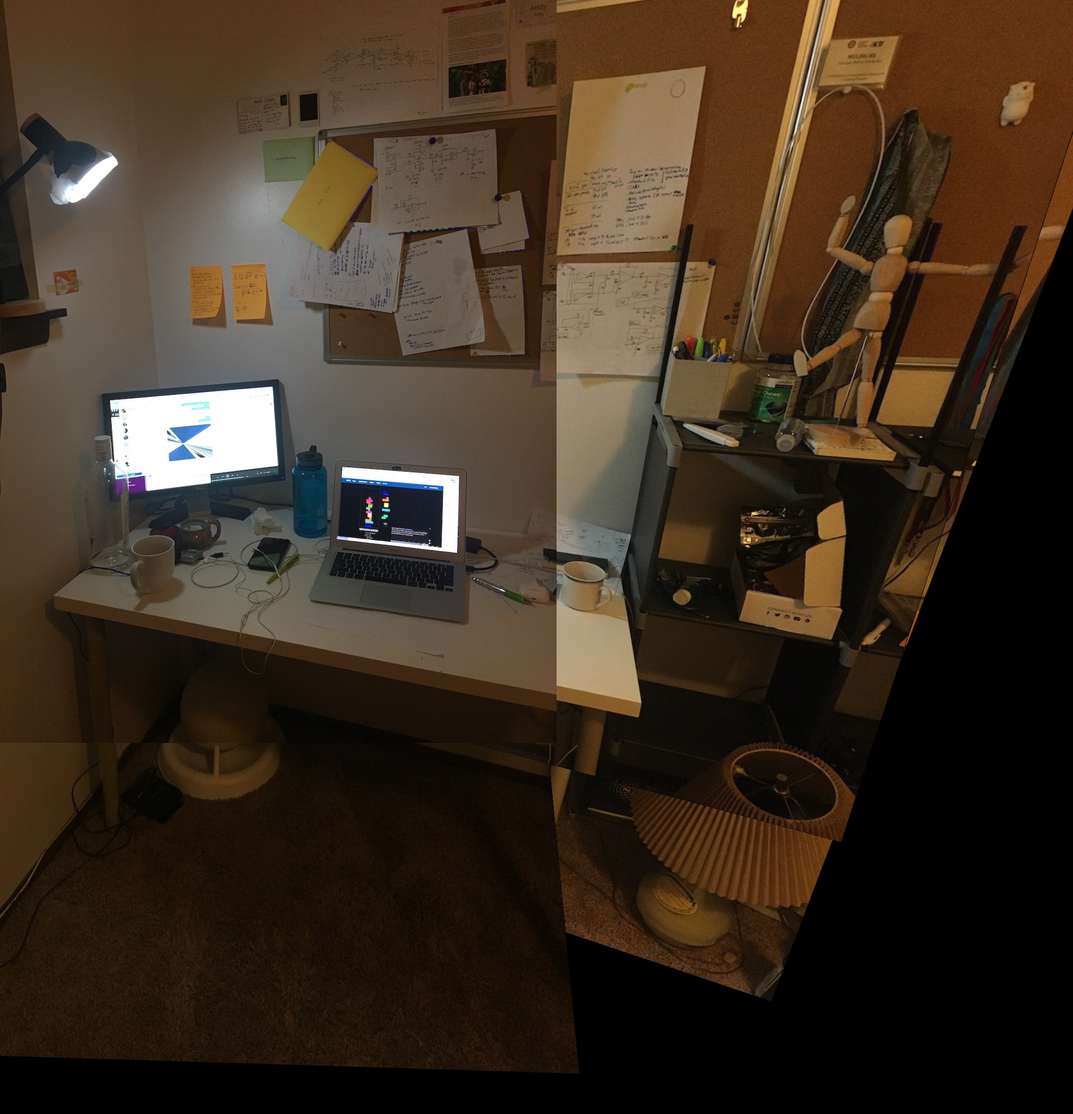
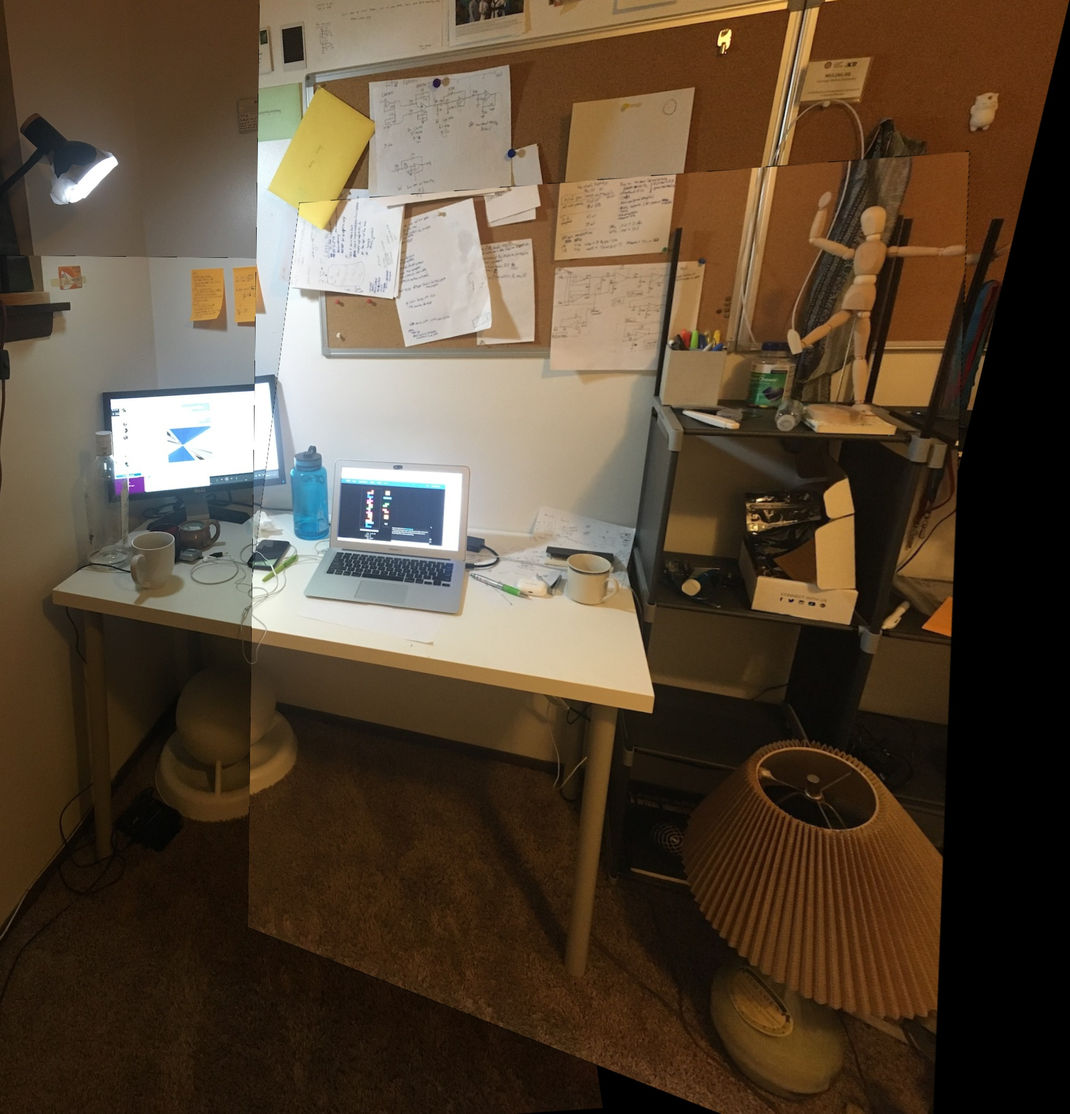
change order of combining and adjust thresholds and changed method of combining images in addImages

diff --git a/utils.py b/utils.py
@@ -45,7 +45,7 @@ def find_good_matches(desc1, desc2):
 
     # Not all matches are good, filter out the bad uing lowe's ratio criterion from:
     # https://docs.opencv.org/3.4/d5/d6f/tutorial_feature_flann_matcher.html
-    ratio_thresh = 0.75
+    ratio_thresh = 0.6
     good_matches = []
     for m, n in matches:
         if m.distance < ratio_thresh * n.distance:
@@ -75,6 +75,7 @@ def getGoodMatches(im1, im2):
 
 def addImage(baseIm, newIm, finalSize):
     matches, kps_1, kps_2 = getGoodMatches(newIm, baseIm)
+    print("keypoints found:", len(kps_1))
     homo, _ = cv2.findHomography(np.array(kps_1), np.array(kps_2),
                                  method=cv2.RANSAC, ransacReprojThreshold=2)
 
@@ -82,20 +83,12 @@ def addImage(baseIm, newIm, finalSize):
     h2, w2, _ = baseIm.shape
 
     warped_image = cv2.warpPerspective(newIm, homo, finalSize)
-
-    # print("baseim shape:", baseIm.shape)
-    # print("finalsize:", finalSize)
-
-    if (baseIm.shape[0] == finalSize[1] and baseIm.shape[1] == finalSize[0]):
-        print("adding base image")
-        # warped_image += baseIm*(warped_image == 0)
-        baseIm += warped_image * (baseIm == 0)
-        warped_image = baseIm
-        # warped_image += baseIm*(warped_image == 0)
-    else:
-        warped_image[0:baseIm.shape[0], 0:baseIm.shape[1]] = baseIm
-    cv2.imwrite("keyIm.jpg", warped_image)
-    return warped_image
+    # return warped_image
+    # Experiment:
+    fin = np.zeros(( finalSize[1], finalSize[0], 3))
+    fin[0:baseIm.shape[0], 0:baseIm.shape[1]] = baseIm
+    combined = fin * (warped_image == 0) + warped_image
+    return combined.astype("uint8")
 
 
 def cropOutBlack(im):
@@ -105,7 +98,8 @@ def cropOutBlack(im):
                                            cv2.CHAIN_APPROX_SIMPLE)
     cnt = contours[0]
     x, y, w, h = cv2.boundingRect(cnt)
-    return im[x:(x+w), y:(y+h)]
+    # return im[x:(x+w), y:(y+h)]
+    return im[y:(y+h),x:(x+w)]
 
 
 def perspectiveWarpPreserveBounds(im1, im2):
@@ -114,7 +108,7 @@ def perspectiveWarpPreserveBounds(im1, im2):
 
     # Calculate the homography    source             destination
     homo, _ = cv2.findHomography(np.array(im1_keypoints), np.array(im2_keypoints),
-                                 method=cv2.RANSAC, ransacReprojThreshold=2)
+                                 method=cv2.RANSAC, ransacReprojThreshold=3)
 
     # Find the corner bounds
     h, w, _ = im2.shape
@@ -143,3 +137,16 @@ def perspectiveWarpPreserveBounds(im1, im2):
     print("x_adj:", x_adj)
     print("y_adj:", y_adj)
     return cv2.warpPerspective(im2, homo, (int(max(x_corners)), int(max(y_corners))))
+
+
+# # Experiment to try and get the seams to line up. did not work.
+# nonz_combined = combined[combined != 0]
+# nonz_combined2 = combined2[combined2 != 0]
+#
+# comb1_sum = nonz_combined.mean()*nonz_combined.shape[0]
+# comb2_sum = nonz_combined2.mean()*nonz_combined2.shape[0]
+# diff = (comb1_sum - comb2_sum)/nonz_combined2.shape[0]
+#
+# newcomb2 = ((combined2 + (diff))*[combined2 != 0])[0]
+#
+# combined3 = addImage(combined.astype(np.float32), newcomb2.astype(np.float32), finalSize)

diff --git a/customstitch.py b/customstitch.py
@@ -11,10 +11,17 @@ deskIms = [cv2.imread("ims/desk4" + file) for file in ["1.JPG", "2.JPG", "3.JPG"
 
 h,w,_ = deskIms[0].shape
 finalSize = (2*h,2*w)
-combined = addImage(deskIms[0], deskIms[1], finalSize)
-combined2 = addImage(combined, deskIms[3], finalSize)
-combined3 = addImage(combined2, deskIms[2], finalSize)
 
-fin = cropOutBlack(combined3)
+# Add paired images vertically
+combined = addImage(deskIms[0], deskIms[3], finalSize)
+combined2 = addImage(deskIms[1], deskIms[2], finalSize)
+
+# Horizontally concat the tall images together.
+combined3 = addImage(combined, combined2.astype("uint8"), finalSize)
+
+# Remove the extra black background
+fin = cropOutBlack(combined3.astype("uint8"))
 
 cv2.imwrite("keyIm.jpg", fin)
+
+# drawKeypointsAcross(cropOutBlack(combined), cropOutBlack(combined2))
